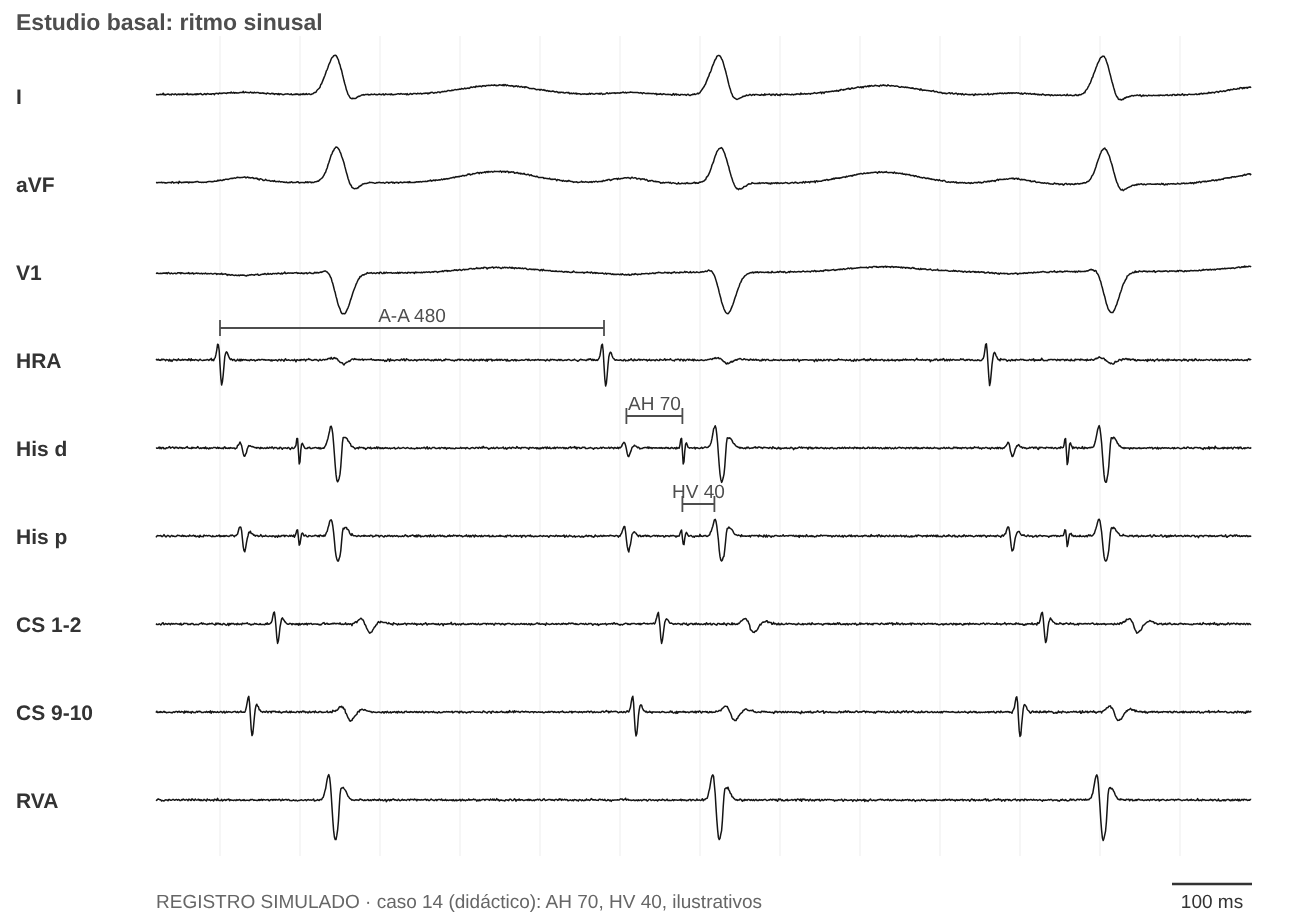
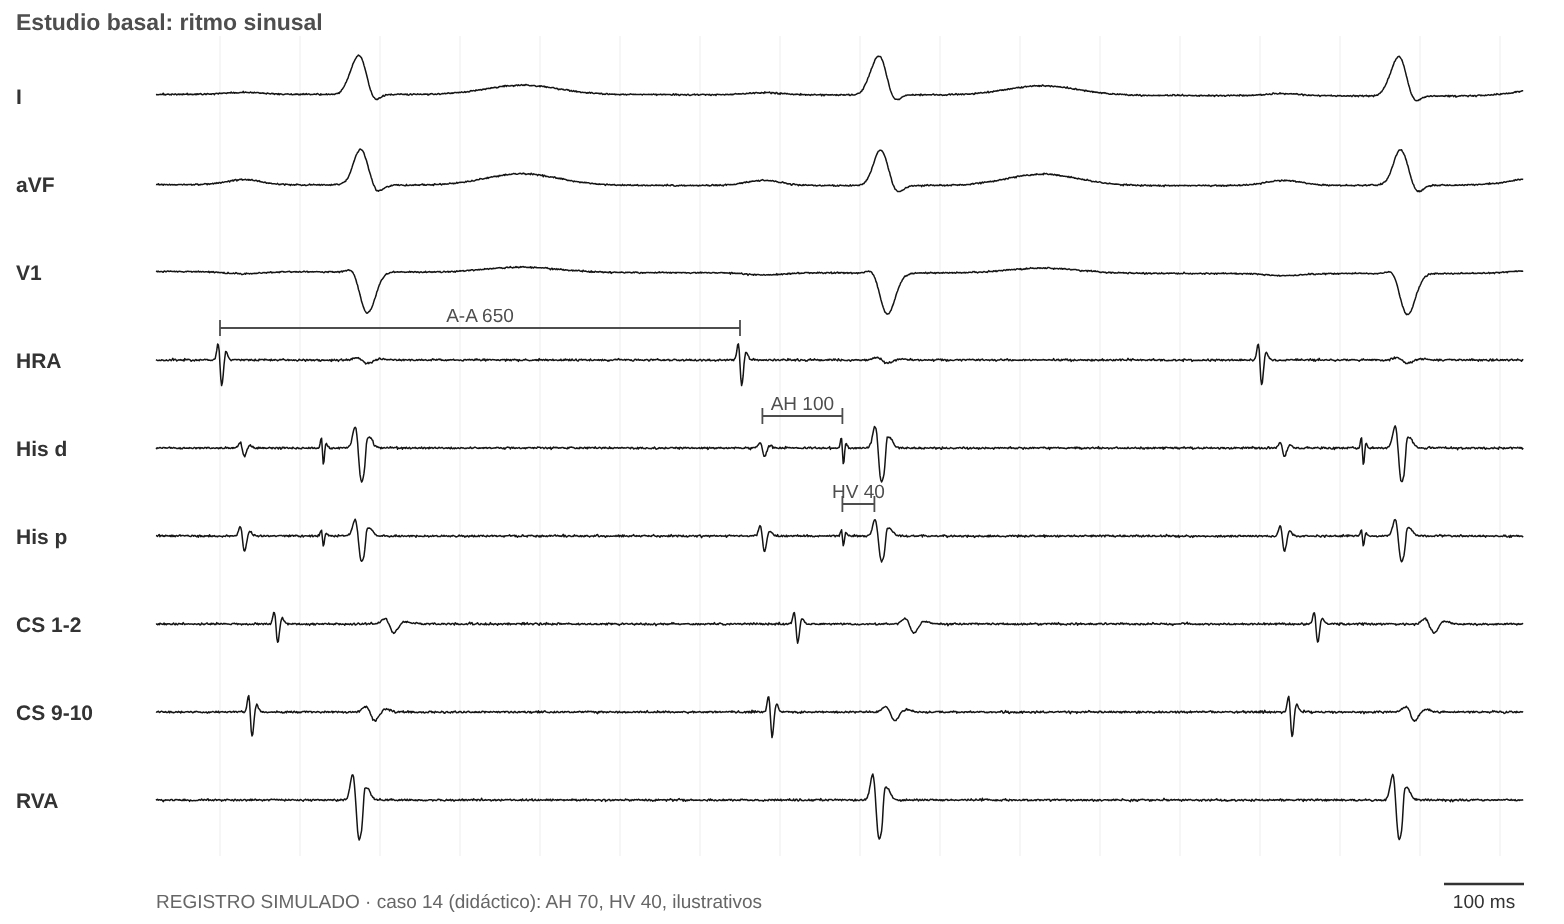
Caso 14 en el formato nuevo con tu ECG real de PJRT (LC 400), paciente de 6 años; todas las maniobras simuladas
Claude-Session: https://claude.ai/code/session_01Pw5rjt62KK5LeJZoEyFiaM

diff --git a/index.html b/index.html
@@ -313,7 +313,7 @@ dialog::backdrop{background:rgba(0,0,0,.45)}
 
 <div id="visor" hidden role="dialog" aria-label="Imagen ampliada"><div class="vbar"><button type="button" class="vm" aria-label="Achicar">−</button><button type="button" class="vp" aria-label="Agrandar">+</button><button type="button" class="vf">Ajustar</button><button type="button" class="vx">✕ Cerrar</button></div><div class="vbox"><img alt=""></div></div>
 <script>
-const APPV = 173;   // igual al número de CACHE_VERSION de sw.js
+const APPV = 174;   // igual al número de CACHE_VERSION de sw.js
 // ===============================================================================================================
 // Referencias. "propia" = artículo del material base; las demás se citan a través de esas revisiones.
 // ===============================================================================================================
@@ -1455,19 +1455,20 @@ const PCASOS = [
       atrop: { v: 'Después de atropina el sinusal se acelera (A-A 650) y cada A conduce una sola vez (AH 80): desaparece el segundo QRS.', r: 'Suprime la respuesta 1:2: esperable en el doble disparo (el ciclo más corto deja la vía lenta refractaria). En las extrasístoles de la unión, en cambio, la atropina las aumenta.', u: 'util', img: 'figs/sim/prac/p13_atrop.png' },
       ado: { v: 'Dos A sinusales seguidas no se conducen (A sin His ni V); después vuelve la respuesta 1:2 (H1-H2 430).', r: 'Bloquea el nodo y suprime transitoriamente las dos conducciones; no separa los diagnósticos.', u: 'util', img: 'figs/sim/prac/p13_ado.png' } },
     dx: ['dfire'], ex: 'Una P y dos QRS: el diferencial es bigeminia auricular, bigeminia de la unión, TRNAV con bloqueo retrógrado 2:1 y doble disparo nodal. El registro de la AD descarta la bigeminia auricular (una sola A) y la secuencia sinusal (alta → baja) descarta la TRNAV con bloqueo 2:1. Cada A conduce por la vía rápida (H1) y por una vía muy lenta (H2), y la respuesta 1:2 se reproduce con la estimulación auricular y desaparece con ciclos cortos o con atropina. Es un doble disparo nodal; la ablación de la vía lenta lo cura. No hacen falta maniobras de encarrilamiento: no hay circuito.', refs: ['burri12', 'peiker16'] },
-  { id: 'c14', t: 'Lactante con taquicardia incesante', p: 'Lactante de 8 meses con taquicardia casi permanente desde hace semanas y FEVI de 40 %.',
-    ecg: 'figs/sim/casos/c14_ecg.png', basal: 'figs/sim/casos/c14_basal.png', ind: 'figs/sim/casos/c14_ind.png',
-    h: ['TSV de QRS angosto, LC 300 ms, relación 1:1', 'RP largo: VA 190 ms, AH 70 ms', 'A más precoz en el ostium del SC (concéntrica)', 'Incesante: se reinicia sola después de pocos latidos sinusales, sin extrasístoles ni cambio del AH'],
-    m: { ehr: { r: 'Una EV con His refractario (270 ms después del V previo, 10 ms después del His) no llega a la A y termina la TSV.', u: 'clave', img: 'figs/sim/prac/p14_ehr.png' },
-      vop: { r: 'Las A se aceleran a la LC de estimulación con la misma secuencia; al cortar, respuesta A-V.', u: 'util' },
-      medidas: { r: 'PPI−LC 135 ms; SA−VA 95 ms.', u: 'trampa' },
-      diff: { r: 'ΔVA (base − ápex) −20 ms.', u: 'util' },
-      aop: { r: 'VA linking presente: el VA del primer latido de retorno es igual al de la TSV.', u: 'util' },
-      pre: { r: 'Sin preexcitación ni doble vía. AH 70, HV 40. Conducción VA decremental, concéntrica, más precoz en el ostium del SC.', u: 'util' },
-      parahis: { r: 'Respuesta nodal: al perder la captura del His el SA se alarga sin cambiar la secuencia.', u: 'trampa' },
-      ado: { r: 'La TSV termina después de un V, sin A.', u: 'util' },
-      eha: { r: 'Un EA con His refractario desde la AD alta no modifica el His siguiente.' } },
-    dx: ['pjrt', 'trav_s'], ex: 'Una taquicardia incesante de RP largo en un lactante, que se reinicia sola sin extrasístoles ni alargamiento del AH, orienta a PJRT. La EV con His refractario que termina la TSV sin llegar a la A demuestra una vía accesoria que participa en el circuito (excluye TRNAV y TA). El PPI−LC y el SA−VA salen "de TRNAV" porque la vía es decremental y la para-Hisiana da respuesta nodal por la misma razón: las dos engañan.', refs: ['ho15', 'veen12'] },
+  { id: 'c14', t: 'TSV incesante en un paciente de 6 años', p: 'Paciente de 6 años con taquicardia casi permanente desde hace semanas y FEVI de 40 %.',
+    ecg: 'figs/sim/casos/c14_ecg.jpg', ecgReal: true, basal: 'figs/sim/casos/c14_basal.png', ind: 'figs/sim/casos/c14_ind.png', indt: 'Reinicio espontáneo de la taquicardia',
+    h: ['TSV de QRS angosto, LC 400 ms, relación AV 1:1', 'Inicio espontáneo, sin estimulación'],
+    hk: ['RP largo con P negativa en las inferiores: VA 260 ms con la A más precoz en el ostium del SC. En el ECG la taquicardia se corta y vuelve a empezar después de pocos latidos sinusales: incesante. El diferencial es PJRT, TA septal baja y TRNAV atípica.', 'Se reinicia sola después de pocos latidos sinusales (A-A 650), sin extrasístole ni alargamiento del AH (100): no depende de un salto a la vía lenta.'],
+    m: { ehr: { v: 'EV con el His refractario, 10 ms después del His: no aparece la A siguiente y la taquicardia termina; vuelve el ritmo sinusal.', r: 'Con el His refractario la EV solo pudo llegar al circuito por una vía, y la bloqueó (la encontró refractaria): termina la taquicardia sin llegar a la A. Demuestra una vía accesoria que participa en el circuito: excluye la TRNAV y la TA.', u: 'clave', img: 'figs/sim/prac/p14_ehr.png' },
+      vop: { v: 'Estimulando el ápex del VD a 370 ms las A se aceleran a 370 con la misma secuencia. Al cortar, el primer electrograma que sigue a la última A es un V (secuencia A-V).', r: 'Respuesta A-V: excluye la TA.', u: 'clave', img: 'figs/sim/prac/p14_vop.png' },
+      medidas: { v: 'PPI 515 ms con LC 400 (PPI−LC 115). SA 335 ms con VA 260 (SA−VA 75). HA 300 en la TSV y 280 estimulando (ΔHA −20).', r: 'PPI−LC < 125 (corte del RP largo) y SA−VA < 85: el ventrículo está en el circuito. ΔHA < −10: estimulando, His y A se activan en paralelo. Apuntan a TRAV.', u: 'clave', img: 'figs/sim/prac/p14_medidas.png' },
+      diff: { v: 'Encarrilando a 370 ms: SA 335 desde el ápex y SA 315 desde la base del VD (VA 260). ΔVA (base − ápex) −20 ms.', r: 'ΔVA ≤ 20 ms: desde la base el frente llega antes a la vía septal; TRAV.', u: 'clave', img: 'figs/sim/prac/p14_diff.png' },
+      aop: { v: 'Estimulando la AD alta a 370 ms los V se aceleran a 370 (V-V 370; en la TSV, 400) con AH 110 (en la TSV, 100). Al cortar, el VA del primer latido es 260 ms, igual al de la TSV.', r: 'VA linking: excluye la TA. ΔAH (AH estimulando − AH en la TSV) 10 ms < 20: la aurícula forma parte del circuito, propio de la PJRT; en la TRNAV atípica y en la reentrada nodoventricular o nodofascicular el ΔAH es > 40.', u: 'clave', img: 'figs/sim/prac/p14_aop.png' },
+      pre: { v: 'Estimulación ventricular en sinusal a 600 y 500 ms.', r: 'Engañosa: SA 180 a 600 y 230 a 500 (decremental), concéntrica con la A más precoz en el ostium del SC. Parece conducción por el nodo, pero la vía de la PJRT también es decremental.', u: 'trampa', img: 'figs/sim/prac/p14_pre.png' },
+      parahis: { v: 'En sinusal, con captura del His: SA 130 y QRS 90. Solo V: SA 180 y QRS 150. Misma secuencia auricular.', r: 'Engañosa: respuesta nodal porque la vía decremental conduce más lento que el nodo; no excluye la PJRT.', u: 'trampa', img: 'figs/sim/prac/p14_parahis.png' },
+      ado: { v: 'La taquicardia termina: el último latido es un V que no conduce a la A.', r: 'Engañosa: sugiere bloqueo en la vía lenta retrógrada (TRNAV atípica), pero las vías decrementales de la PJRT también son sensibles a la adenosina.', u: 'trampa', img: 'figs/sim/prac/p14_ado.png' },
+      eha: { v: 'EA desde el ostium del SC con el His refractario: el His siguiente sale a su tiempo (H-H 400).', r: 'No modifica el His: esperable en la TRAV (el EA no puede bajar por el nodo refractario).', u: 'util', img: 'figs/sim/prac/p14_eha.png' } },
+    dx: ['pjrt', 'trav_s'], ex: 'Taquicardia incesante de RP largo que se reinicia sola, sin extrasístoles ni alargamiento del AH. La EV con His refractario que termina la taquicardia sin llegar a la A demuestra una vía accesoria que participa en el circuito. La respuesta A-V y el VA linking excluyen la TA; el ΔAH de 10 ms ubica la aurícula en el circuito; PPI−LC 115, SA−VA 75, ΔHA −20 y ΔVA −20 ponen al ventrículo en el circuito: PJRT. La conducción VA decremental, la para-Hisiana nodal y la adenosina engañan porque la vía es decremental.', refs: ['ho15', 'veen12'] },
   { id: 'c15', t: 'TSV con conducción VA decremental', p: 'Varón de 7 años con TSV recurrentes. ECG basal sin preexcitación. Registros reales del polígrafo y del mapeo.',
     ecg: 'figs/sim/casos/c15_ecg.jpg', ecgReal: true, ecgt: 'ECG de 12 derivaciones en ritmo sinusal (polígrafo)', ind: 'figs/sim/casos/c15_ind.jpg', indReal: true,
     h: ['TSV de QRS angosto, LC 311 ms, relación 1:1', 'Inducida con estimulación auricular desde el SC 5-6 (S1-S1 260 ms)', 'Activación auricular excéntrica: el EGM auricular más precoz está en el SC 1-2', 'Sin preexcitación en sinusal'],

diff --git a/sw.js b/sw.js
@@ -1,6 +1,6 @@
 // Permite instalar la app y abrirla sin conexión. Primero la red (siempre lo último publicado); si no hay, la copia.
 // Si cambiás un archivo, subí CACHE_VERSION.
-const CACHE_VERSION = 'mef-v173';
+const CACHE_VERSION = 'mef-v174';
 const ARCHIVOS = ['./', './index.html', './manifest.json', './iconos/icon-192.png', './iconos/icon-512.png'];
 self.addEventListener('install', e => e.waitUntil(caches.open(CACHE_VERSION).then(c => c.addAll(ARCHIVOS)).then(() => self.skipWaiting())));
 self.addEventListener('activate', e => e.waitUntil(caches.keys().then(ks => Promise.all(ks.filter(k => k !== CACHE_VERSION).map(k => caches.delete(k)))).then(() => self.clients.claim())));

diff --git a/herramientas/simulador/cases6.py b/herramientas/simulador/cases6.py
@@ -1329,6 +1329,112 @@ S['p13_ado'] = dict(win=(-80, As[-1] + 650), pxms=0.18, title='Adenosina IV', ch
     cal=[(As[0], As[1], 'HRA', 'A-A 896'), (h1[1], h1[1] + 430, 'His p', 'H1-H2 430')],
     marks=[(As[1] + 40, 'aVF', 'A sin V'), (As[2] + 40, 'aVF', 'A sin V')])
 
+# =====================================================================================================
+# Caso 14 (PJRT en un paciente de 6 años; LC 400 como el ECG real, VA 260, AH 100, HV 40, A más precoz en el ostium del SC).
+SRC14 = 'caso 14: LC 400 como el caso; el resto, ilustrativo'
+H14, LC14b, VA14b, AH14b, SC14, SA14, PPI14, HAp14 = 40, 400, 260, 100, 370, 335, 515, 280
+
+
+def vop14(title, med):
+    svt = [i * LC14b for i in range(3)]
+    sp = [svt[-1] + 300 + SC14 * k for k in range(6)]
+    A = [v + VA14b for v in svt] + [s + SA14 for s in sp]
+    ret = sp[-1] + PPI14
+    after = [ret, ret + LC14b]
+    cal = [(svt[0], svt[1], 'RVA', f'LC {LC14b}'), (svt[1], svt[1] + VA14b + 2, 'CS 9-10', f'VA {VA14b}'), (sp[-2], sp[-1], 'RVA', f'S-S {SC14}'),
+           (A[-3] + 2, A[-2] + 2, 'HRA', f'A-A {SC14}'), (sp[-1], A[-1] + 2, 'CS 9-10', f'SA {SA14}'), (sp[-1], ret + 2, 'RVA', f'PPI {PPI14}')]
+    marks = []
+    if med:
+        cal = [c for c in cal if not c[3].startswith(('S-S', 'A-A'))]
+        cal += [(svt[1] - H14, svt[1] + VA14b, 'His p', f'HA {H14 + VA14b}'), (A[-1] - HAp14, A[-1], 'His p', f'HA {HAp14}')]
+        marks = [(sp[-1] + 200, 'I', f'SA − VA = {SA14} − {VA14b} = {SA14 - VA14b} ms'), (sp[-1] + 200, 'aVF', f'PPI − LC = {PPI14} − {LC14b} = {PPI14 - LC14b} ms'),
+                 (sp[-1] + 200, 'V1', f'ΔHA = {HAp14} − {H14 + VA14b} = −{H14 + VA14b - HAp14} ms')]
+    return dict(win=(-80, after[-1] + 220), pxms=0.22, title=title, channels=CH6, src=SRC14,
+        beats=[(v, 'n') for v in svt + after] + [(s, 'pa') for s in sp], spikes=sp,
+        atr=[(a, 'conc_cs', -1) for a in A + [v + VA14b for v in after]],
+        h_ante=[v - H14 for v in svt + after], h_retro=[s + SA14 - HAp14 for s in sp], cal=cal, marks=marks)
+
+
+S['p14_vop'] = vop14('Sobreestimulación ventricular desde el ápex del VD a 370 ms', False)
+S['p14_medidas'] = vop14('Medidas sobre la sobreestimulación ventricular (ápex del VD a 370 ms): PPI, SA y HA', True)
+
+
+def diff14(sa, typ, title):
+    svt = [0, LC14b]
+    sp = [700 + SC14 * k for k in range(6)]
+    A = [v + VA14b for v in svt] + [s + sa for s in sp]
+    ret = sp[-1] + PPI14 + (sa - SA14)
+    return dict(win=(-80, ret + LC14b + 220), pxms=0.22, channels=CH6, title=title, spikes=sp, pace_ch='RVA', src=SRC14,
+        beats=[(v, 'n') for v in svt] + [(s, typ) for s in sp] + [(ret, 'n'), (ret + LC14b, 'n')],
+        atr=[(a, 'conc_cs', -1) for a in A] + [(ret + VA14b, 'conc_cs', -1), (ret + LC14b + VA14b, 'conc_cs', -1)],
+        h_ante=[v - H14 for v in svt] + [ret - H14, ret + LC14b - H14], h_retro=[s + sa - HAp14 for s in sp],
+        cal=[(svt[1], svt[1] + VA14b + 2, 'CS 9-10', f'VA {VA14b}'), (sp[-1], A[-1] + 2, 'CS 9-10', f'SA {sa}'), (svt[0], svt[1], 'RVA', f'LC {LC14b}')])
+
+
+S['p14_diff_a'] = diff14(335, 'pa', 'A. Encarrilamiento desde el ápex del VD (370 ms)')
+S['p14_diff_b'] = diff14(315, 'pb', 'B. Encarrilamiento desde la base del VD (370 ms)')
+
+# EV con His refractario: no llega a la A y la taquicardia termina; vuelve el sinusal.
+vs = [i * LC14b for i in range(4)]
+A = [v + VA14b for v in vs]
+h_exp = vs[-1] + LC14b - H14
+sp = h_exp + 10
+sa = sp + 700
+S['p14_ehr'] = dict(win=(-80, sa + 28 + AH14b + H14 + 250), pxms=0.25, title='EV con His refractario durante la taquicardia', channels=CH6, src=SRC14,
+    beats=[(v, 'n') for v in vs] + [(sp, 'pa'), (sa + 28 + AH14b + H14, 'n')], spikes=[sp], pace_ch='RVA',
+    atr=[(a, 'conc_cs', -1) for a in A] + [(sa, 'sinus', 1)], h_ante=[v - H14 for v in vs] + [h_exp, sa + 28 + AH14b],
+    cal=[(vs[1], vs[2], 'RVA', f'LC {LC14b}'), (vs[2], A[2] + 2, 'CS 9-10', f'VA {VA14b}'), (A[-1], sa, 'HRA', f'A-A {sa - A[-1]}')],
+    marks=[(sp, 'V1', 'EV'), (h_exp, 'His p', 'H'), (sp + 180, 'aVF', 'sin A')])
+
+# Estudio basal: estimulación del VD a 600 y 500: SA 180 y 230 (decremental), concéntrica con la A precoz en el ostium del SC.
+sp = [0, 600, 1200, 1700, 2200]
+sas = [180, 180, 180, 230, 230]
+S['p14_pre'] = dict(win=(-80, 2600), pxms=0.27, title='Estimulación ventricular en ritmo sinusal: 600 y 500 ms', channels=CH6, src=SRC14,
+    spikes=sp, beats=[(s, 'pa') for s in sp], atr=[(s + a, 'conc_cs', -1) for s, a in zip(sp, sas)],
+    cal=[(sp[0], sp[1], 'RVA', 'S-S 600'), (sp[1], sp[1] + 182, 'CS 9-10', 'SA 180'), (sp[2], sp[3], 'RVA', 'S-S 500'), (sp[3], sp[3] + 232, 'CS 9-10', 'SA 230')])
+
+# Para-Hisiana en sinusal: SA 130 → 180, misma secuencia.
+sp = [0, 700, 1400, 2100]
+cap = [True, False, True, False]
+S['p14_parahis'] = dict(win=(-80, 2450), pxms=0.30, title='Estimulación para-Hisiana en ritmo sinusal', channels=CH6, src=SRC14,
+    spikes=sp, pace_ch='His p', beats=[(s + H14 if c else s, 'n' if c else 'pa') for s, c in zip(sp, cap)],
+    atr=[(s + (130 if c else 180), 'conc_cs', -1) for s, c in zip(sp, cap)],
+    cal=[(sp[0], sp[0] + 132, 'CS 9-10', 'SA 130'), (sp[1], sp[1] + 182, 'CS 9-10', 'SA 180'), (sp[2] + H14, sp[2] + H14 + 90, 'RVA', 'QRS 90'), (sp[3], sp[3] + 150, 'RVA', 'QRS 150')],
+    marks=[(sp[0] + 30, 'V1', 'His + V'), (sp[1] + 40, 'V1', 'solo V')])
+
+# Sobreestimulación auricular desde la AD alta a 370: AH 110 (TSV 100, ΔAH 10); al cortar, VA 260 como en la TSV.
+vs = [0, LC14b]
+A = [v + VA14b for v in vs]
+sp = [A[-1] + 250 + 370 * k for k in range(6)]
+pv = [s + 28 + 110 + H14 for s in sp]
+vs2 = [pv[-1] + LC14b, pv[-1] + 2 * LC14b]
+S['p14_aop'] = dict(win=(-80, vs2[-1] + 300), pxms=0.21, title='Sobreestimulación auricular desde la AD alta a 370 ms', channels=CH6, src=SRC14,
+    beats=[(v, 'n') for v in vs + pv + vs2], aspikes=sp, apace_ch='HRA',
+    atr=[(a, 'conc_cs', -1) for a in A] + [(s + 5, 'sinus', 1) for s in sp] + [(v + VA14b, 'conc_cs', -1) for v in [pv[-1]] + vs2],
+    h_ante=[v - H14 for v in vs + pv + vs2],
+    cal=[(vs[0], vs[1], 'RVA', f'V-V {LC14b}'), (vs[0], A[0] + 2, 'CS 9-10', f'VA {VA14b}'), (A[0] + 2, vs[1] - H14, 'His d', f'AH {AH14b}'),
+         (sp[-2], sp[-1], 'HRA', 'S-S 370'), (pv[-2], pv[-1], 'RVA', 'V-V 370'), (sp[-1] + 28, pv[-1] - H14, 'His d', 'AH 110'),
+         (pv[-1], pv[-1] + VA14b + 2, 'CS 9-10', f'VA {VA14b}')])
+
+# Adenosina: termina con un V.
+vs = [i * LC14b for i in range(4)]
+A = [v + VA14b for v in vs[:3]]
+S['p14_ado'] = dict(win=(-80, vs[-1] + 700), pxms=0.22, title='Adenosina IV durante la taquicardia', channels=CH6, src=SRC14,
+    beats=[(v, 'n') for v in vs], atr=[(a, 'conc_cs', -1) for a in A], h_ante=[v - H14 for v in vs],
+    cal=[(vs[0], vs[1], 'RVA', f'LC {LC14b}'), (vs[1], A[1] + 2, 'CS 9-10', f'VA {VA14b}')],
+    marks=[(vs[3] + 120, 'aVF', 'último: V sin A')])
+
+# EA con His refractario desde el ostium del SC: el His siguiente sale a su tiempo.
+hs = [i * LC14b - H14 for i in range(6)]
+apb = hs[3] + 10
+vs = [h + H14 for h in hs]
+A = [v + VA14b for k2, v in enumerate(vs) if k2 != 3]
+S['p14_eha'] = dict(win=(-100, vs[-1] + 250), pxms=0.22, title='EA con His refractario desde el ostium del SC', channels=CH6, src=SRC14,
+    beats=[(x, 'n') for x in vs], aspikes=[apb], apace_ch='CS 9-10',
+    atr=[(a, 'conc_cs', -1) for a in A] + [(apb + 4, 'conc_cs', 1)], h_ante=hs,
+    cal=[(hs[2], hs[3], 'His d', f'H-H {LC14b}'), (hs[3], hs[4], 'His d', f'H-H {LC14b}')],
+    marks=[(apb, 'V1', 'EA')])
+
 if __name__ == '__main__':
     for k in (sys.argv[3:] or S):
         render(S[k], f'{OUT}/{k}.svg')

diff --git a/herramientas/simulador/cases5.py b/herramientas/simulador/cases5.py
@@ -86,13 +86,13 @@ S['c4_ind'] = dict(win=(-80, vs[-1] + 220), pxms=0.27, title='Inducción: extrae
          (vs[3], vs[4], 'RVA', f'LC {vs[4] - vs[3]}'), (vs[3], A[1], 'CS 1-2', f'VA {A[1] - vs[3]}'),
          (vs[6], vs[7], 'RVA', f'LC {vs[7] - vs[6]}'), (vs[6], A[4], 'CS 1-2', f'VA {A[4] - vs[6]}')])
 
-# Caso 14 (didáctico, PJRT en un lactante): LC 300, VA 190, AH 70, HV 40. Valores ilustrativos.
-HV14, VA14, AH14, LC14 = 40, 190, 70, 300
-S['c14_basal'] = basal('caso 14 (didáctico): AH 70, HV 40, ilustrativos', ah=AH14, hv=HV14, cl=480)
-S['c14_basal']['win'] = (-80, 2 * 480 + 330)
+# Caso 14 (PJRT en un paciente de 6 años): LC 400 como el ECG real; VA 260, AH 100, HV 40 ilustrativos.
+HV14, VA14, AH14, LC14 = 40, 260, 100, 400
+S['c14_basal'] = basal('caso 14 (didáctico): AH 70, HV 40, ilustrativos', ah=AH14, hv=HV14, cl=650)
+S['c14_basal']['win'] = (-80, 2 * 650 + 330)
 
 # Reinicio espontáneo: tres sinusales (A-A 480) y la TSV arranca sola, sin extrasístole ni cambio del AH.
-a_sin = [0, 480, 960]
+a_sin = [0, 650, 1300]
 hs = [a + 28 + AH14 for a in a_sin]
 A_ret = []
 for _ in range(5):
@@ -102,7 +102,7 @@ vs = [h + HV14 for h in hs]
 S['c14_ind'] = dict(win=(-80, vs[-1] + 200), pxms=0.30, title='Reinicio espontáneo de la taquicardia', channels=CH6,
     src='caso 14 (didáctico): valores ilustrativos', beats=[(v, 'n') for v in vs],
     atr=[(a, 'sinus', 1) for a in a_sin] + [(a, 'conc_cs', -1) for a in A_ret], h_ante=hs,
-    cal=[(a_sin[1], a_sin[2], 'HRA', 'A-A 480'), (a_sin[2] + 28, hs[2], 'His d', f'AH {AH14}'),
+    cal=[(a_sin[1], a_sin[2], 'HRA', 'A-A 650'), (a_sin[2] + 28, hs[2], 'His d', f'AH {AH14}'),
          (vs[2], A_ret[0] + 2, 'CS 9-10', f'VA {VA14}'), (vs[4], vs[5], 'RVA', f'LC {LC14}')])
 
 # EV con His refractario: el estímulo cae 30 ms antes del V esperado (el His ya se activó); no hay A y la TSV termina.
@@ -112,7 +112,7 @@ h_exp = vs[-1] + LC14 - HV14
 sp = h_exp + 10
 sin_a = sp + 620
 hs = [v - HV14 for v in vs] + [h_exp, sin_a + 28 + AH14]
-S['p14_ehr'] = dict(win=(-80, sin_a + 28 + AH14 + HV14 + 250), pxms=0.30, title='EV con His refractario durante la taquicardia', channels=CH6,
+S['p14old_ehr'] = dict(win=(-80, sin_a + 28 + AH14 + HV14 + 250), pxms=0.30, title='EV con His refractario durante la taquicardia', channels=CH6,
     src='caso 14 (didáctico): valores ilustrativos',
     beats=[(v, 'n') for v in vs] + [(sp, 'pa'), (sin_a + 28 + AH14 + HV14, 'n')], spikes=[sp],
     atr=[(a, 'conc_cs', -1) for a in A] + [(sin_a, 'sinus', 1)], h_ante=hs,
